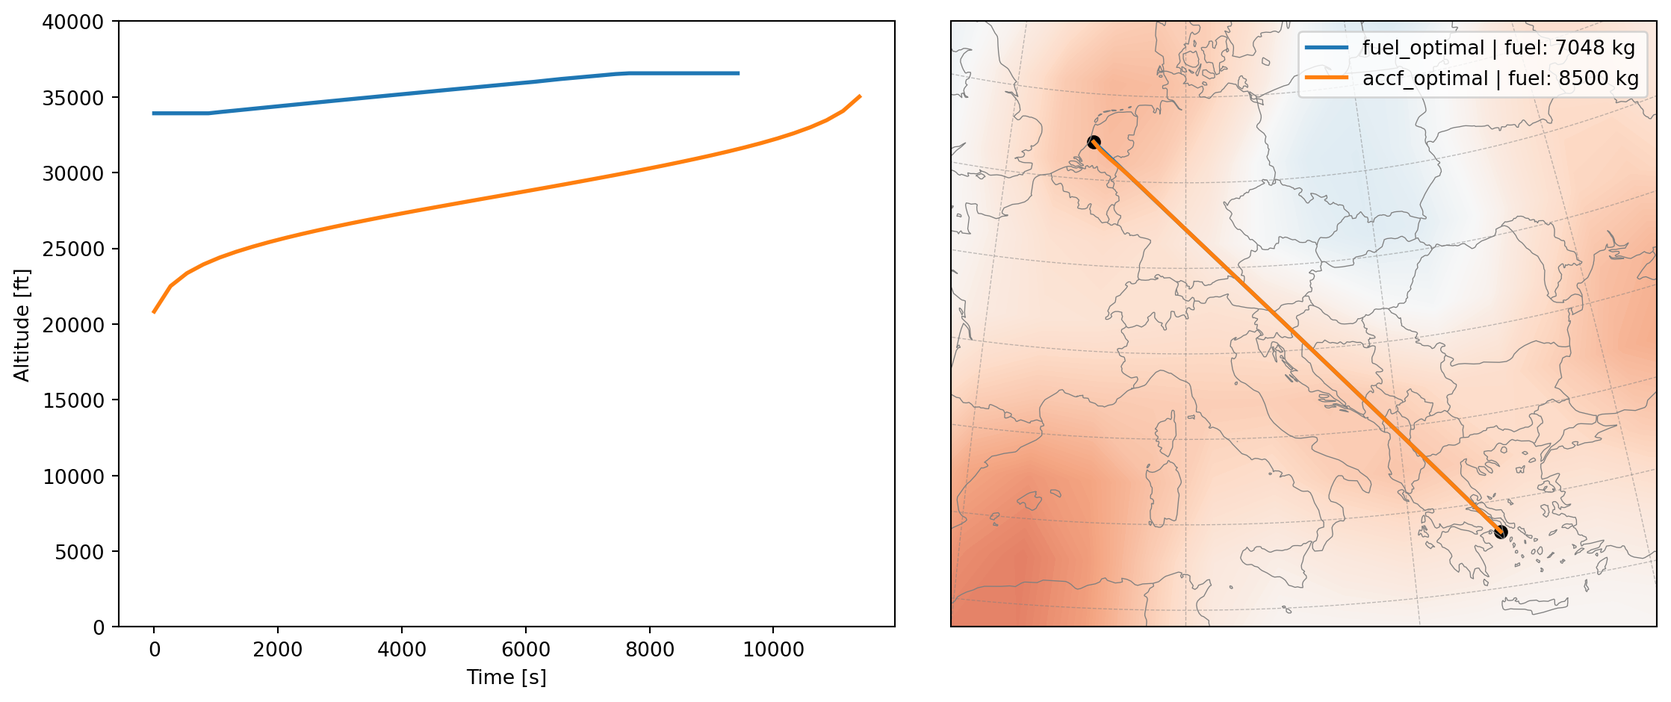
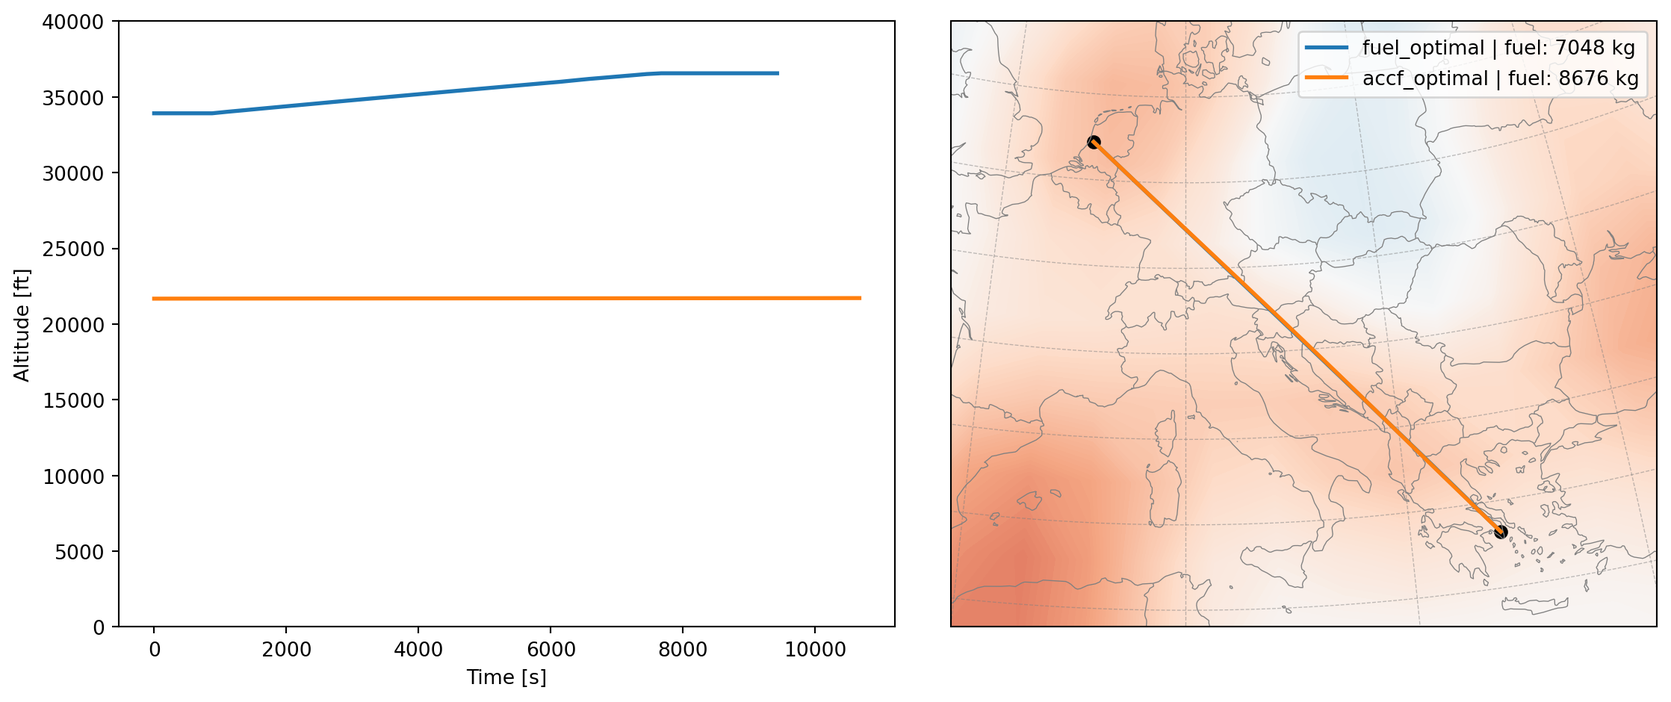
docs(contrails): use auto_rescale_objective=True
The contrail + CO2 ATR20 objective evaluates to ~1e-12 K/s per
collocation segment, far below IPOPT's default tolerances. Without
rescaling, every scenario converged to the same trajectory regardless
of the contrail/CO2 weight. Turning on auto_rescale_objective=True
(restored in opentop) normalizes the objective to O(1) at the initial
guess; the scenario loop now produces the expected divergent
trajectories (sc_c=0 → 35385 ft, sc_c=1 → 21697 ft).

Add a callout explaining why this kwarg is essential for
climate-metric objectives, and rebuild contrails.html with the
corrected trajectories.

diff --git a/_book/optimize/contrails.html b/_book/optimize/contrails.html
@@ -447,13 +447,13 @@ div.csl-indent {
 <span id="cb1-2"><a href="#cb1-2" aria-hidden="true" tabindex="-1"></a></span>
 <span id="cb1-3"><a href="#cb1-3" aria-hidden="true" tabindex="-1"></a>urllib.request.urlretrieve(<span class="st">'https://opendap.4tu.nl/thredds/fileServer/data2/djht/bea8a3fe-e34c-4598-9f94-c5a5c63348e5/1/contrail_original.nc'</span>, <span class="st">'tmp/contrail.nc'</span>)</span></code></pre></div><button title="Copy to Clipboard" class="code-copy-button"><i class="bi"></i></button></div>
 <p>Next, we will read the data and convert it to a cost grid. We will use only the data from December 18, 2015 as example, which is also the date used in the paper.</p>
-<div id="7ee6eb07" class="cell" data-execution_count="1">
+<div id="6d8d51f3" class="cell" data-execution_count="1">
 <div class="code-copy-outer-scaffold"><div class="sourceCode cell-code" id="cb2"><pre class="sourceCode python code-with-copy"><code class="sourceCode python"><span id="cb2-1"><a href="#cb2-1" aria-hidden="true" tabindex="-1"></a><span class="im">import</span> xarray <span class="im">as</span> xr</span>
 <span id="cb2-2"><a href="#cb2-2" aria-hidden="true" tabindex="-1"></a></span>
 <span id="cb2-3"><a href="#cb2-3" aria-hidden="true" tabindex="-1"></a>ds <span class="op">=</span> xr.open_dataset(<span class="st">"tmp/contrail.nc"</span>).sel(time<span class="op">=</span><span class="st">"2015-12-18"</span>)</span></code></pre></div><button title="Copy to Clipboard" class="code-copy-button"><i class="bi"></i></button></div>
 </div>
 <p>In this dataset, the levels are defined using L31 model from ECMWF. In order to convert the pressure levels to height, we use the following corresponding pressure altitude in <code>hPa</code>, which will be used to calculate the height in <code>m</code>:</p>
-<div id="7dac318f" class="cell" data-execution_count="2">
+<div id="fe396490" class="cell" data-execution_count="2">
 <details class="code-fold">
 <summary>L31 level to pressure in hPa</summary>
 <div class="code-copy-outer-scaffold"><div class="sourceCode cell-code" id="cb3"><pre class="sourceCode python code-with-copy"><code class="sourceCode python"><span id="cb3-1"><a href="#cb3-1" aria-hidden="true" tabindex="-1"></a>level_pressure <span class="op">=</span> [</span>
@@ -506,7 +506,7 @@ Note
 <p>A few things to pay attention to: - longitude from ECMWF data is in the range of 0 to 360, we need to convert it to -180 to 180. - The height is in <code>hPa</code>, we need to convert it to <code>m</code>. - We will only use the data below 15,000m (below FL500). - The cost dataframe must contain the following minimum columns: ‘latitude’, ‘longitude’, ‘height’, ‘cost’.</p>
 </div>
 </div>
-<div id="8a6d22b3" class="cell" data-execution_count="3">
+<div id="018ca38b" class="cell" data-execution_count="3">
 <div class="code-copy-outer-scaffold"><div class="sourceCode cell-code" id="cb4"><pre class="sourceCode python code-with-copy"><code class="sourceCode python"><span id="cb4-1"><a href="#cb4-1" aria-hidden="true" tabindex="-1"></a><span class="im">import</span> openap</span>
 <span id="cb4-2"><a href="#cb4-2" aria-hidden="true" tabindex="-1"></a><span class="im">import</span> pandas <span class="im">as</span> pd</span>
 <span id="cb4-3"><a href="#cb4-3" aria-hidden="true" tabindex="-1"></a><span class="im">import</span> numpy <span class="im">as</span> np</span>
@@ -601,7 +601,7 @@ Note
 </div>
 </div>
 <p>Before we use the data for optimization, let’s reproduce the example from the paper with the cost grid for Europe at 250 hPa, which is approximately 10,700m. The selected EU region is defined as 30-70 latitude and -20 to 40 longitude.</p>
-<div id="42e2cc43" class="cell" data-execution_count="4">
+<div id="5faaa145" class="cell" data-execution_count="4">
 <div class="code-copy-outer-scaffold"><div class="sourceCode cell-code" id="cb5"><pre class="sourceCode python code-with-copy"><code class="sourceCode python"><span id="cb5-1"><a href="#cb5-1" aria-hidden="true" tabindex="-1"></a><span class="im">import</span> matplotlib.pyplot <span class="im">as</span> plt</span>
 <span id="cb5-2"><a href="#cb5-2" aria-hidden="true" tabindex="-1"></a><span class="im">from</span> cartopy <span class="im">import</span> crs <span class="im">as</span> ccrs</span>
 <span id="cb5-3"><a href="#cb5-3" aria-hidden="true" tabindex="-1"></a><span class="im">from</span> cartopy.feature <span class="im">import</span> BORDERS</span>
@@ -669,7 +669,7 @@ Note
 <p>It is also practical to smooth the grid, most importantly the vertical axis, so that the optimization can be more stable. The Gaussian filter helps to prevent sharp discontinuities in the cost grid, thus improving the gradient calculation.</p>
 </div>
 </div>
-<div id="eee02ef9" class="cell" data-execution_count="5">
+<div id="fc27d119" class="cell" data-execution_count="5">
 <div class="code-copy-outer-scaffold"><div class="sourceCode cell-code" id="cb6"><pre class="sourceCode python code-with-copy"><code class="sourceCode python"><span id="cb6-1"><a href="#cb6-1" aria-hidden="true" tabindex="-1"></a><span class="im">from</span> scipy.ndimage <span class="im">import</span> gaussian_filter</span>
 <span id="cb6-2"><a href="#cb6-2" aria-hidden="true" tabindex="-1"></a></span>
 <span id="cb6-3"><a href="#cb6-3" aria-hidden="true" tabindex="-1"></a>df_cost <span class="op">=</span> df_cost_world.query(</span>
@@ -686,7 +686,7 @@ Note
 <span id="cb6-14"><a href="#cb6-14" aria-hidden="true" tabindex="-1"></a>df_cost <span class="op">=</span> df_cost.assign(cost<span class="op">=</span>cost_.flatten())</span></code></pre></div><button title="Copy to Clipboard" class="code-copy-button"><i class="bi"></i></button></div>
 </div>
 <p>Next, we can plot the smoothed cost grid for different heights.</p>
-<div id="a50e601e" class="cell" data-execution_count="6">
+<div id="680b8ec6" class="cell" data-execution_count="6">
 <div class="code-copy-outer-scaffold"><div class="sourceCode cell-code" id="cb7"><pre class="sourceCode python code-with-copy"><code class="sourceCode python"><span id="cb7-1"><a href="#cb7-1" aria-hidden="true" tabindex="-1"></a>fig, axes <span class="op">=</span> plt.subplots(<span class="dv">3</span>, <span class="dv">3</span>, figsize<span class="op">=</span>(<span class="dv">12</span>, <span class="dv">10</span>), subplot_kw<span class="op">=</span><span class="bu">dict</span>(projection<span class="op">=</span>proj))</span>
 <span id="cb7-2"><a href="#cb7-2" aria-hidden="true" tabindex="-1"></a></span>
 <span id="cb7-3"><a href="#cb7-3" aria-hidden="true" tabindex="-1"></a>heights <span class="op">=</span> df_cost.height.unique()</span>
@@ -741,6 +741,21 @@ Note
 <p>The unit of the contrail temperature response from the paper is in <code>K/km</code>; however, the optimizer requires the cost to be divided by time, thus we need to convert the unit to <code>K/s</code>. In this case, we first define the cost to be not time-dependent. Then, we multiply the cost by the true airspeed of the aircraft with a conversion factor of <code>1e-3</code>, which is the speed of the aircraft in <code>km/s</code>.</p>
 <p>For the CO2 emissions, we use the conversion factor of <code>7.03e-15 K/kg</code> to convert the fuel flow (<code>kg/s</code>) to temperature response (<code>K/s</code>).</p>
 <p>In addition to the default combined effect of contrail and CO2, we will build a fuel optimal trajectory as a comparison. The fuel optimal trajectory is obtained by setting the contrail cost to zero.</p>
+<div class="callout callout-style-default callout-important callout-titled">
+<div class="callout-header d-flex align-content-center">
+<div class="callout-icon-container">
+<i class="callout-icon"></i>
+</div>
+<div class="callout-title-container flex-fill">
+<span class="screen-reader-only">Important</span><code>auto_rescale_objective=True</code> is essential for climate-metric objectives
+</div>
+</div>
+<div class="callout-body-container callout-body">
+<p>The objective below combines contrail ATR20 (in K/km, multiplied by airspeed to give K/s) and CO2 (fuel-flow kg/s multiplied by 7.03e-15 K/kg to give K/s). The total is tiny — somewhere around 10⁻¹² K/s per collocation segment.</p>
+<p>IPOPT’s default convergence tolerances (<code>tol</code>, <code>acceptable_tol</code>) are calibrated for objectives on the order of 1. When the physical objective is at 10⁻¹², the tolerances are trivially satisfied at any feasible point: the solver reports <code>Solve_Succeeded</code> in a handful of iterations, but the optimum it returns is barely distinguishable from the initial guess. All scenarios below would collapse to the same trajectory.</p>
+<p><code>auto_rescale_objective=True</code> evaluates the symbolic objective at the initial guess, divides the whole objective by that value, and multiplies back into <code>objective_value</code> so callers still see the physical number. IPOPT then works against an <code>O(1)</code> objective where its tolerances mean what they say. Use this whenever the natural magnitude of the objective is far from 1 — climate-metric examples are the canonical case.</p>
+</div>
+</div>
 <div class="callout callout-style-default callout-tip callout-titled">
 <div class="callout-header d-flex align-content-center">
 <div class="callout-icon-container">
@@ -761,7 +776,7 @@ Note
 <p>The first call builds the B-spline and writes the result to <code>cache/contrail.casadi</code>; subsequent calls load the cache in under a second. The same cache can be produced from the command line with <code>opentop gengrid</code> — see the <a href="../optimize/cli.html">CLI chapter</a> for details.</p>
 </div>
 </div>
-<div id="5d7f639d" class="cell" data-execution_count="7">
+<div id="46423d50" class="cell" data-execution_count="7">
 <div class="code-copy-outer-scaffold"><div class="sourceCode cell-code" id="cb9"><pre class="sourceCode python code-with-copy"><code class="sourceCode python"><span id="cb9-1"><a href="#cb9-1" aria-hidden="true" tabindex="-1"></a><span class="im">import</span> opentop <span class="im">as</span> top</span>
 <span id="cb9-2"><a href="#cb9-2" aria-hidden="true" tabindex="-1"></a></span>
 <span id="cb9-3"><a href="#cb9-3" aria-hidden="true" tabindex="-1"></a>optimizer <span class="op">=</span> top.Cruise(<span class="st">"A320"</span>, <span class="st">"EHAM"</span>, <span class="st">"LGAV"</span>, m0<span class="op">=</span><span class="fl">0.85</span>)</span>
@@ -793,15 +808,16 @@ Note
 <span id="cb9-29"><a href="#cb9-29" aria-hidden="true" tabindex="-1"></a>    objective<span class="op">=</span>objective,</span>
 <span id="cb9-30"><a href="#cb9-30" aria-hidden="true" tabindex="-1"></a>    interpolant<span class="op">=</span>interpolant,</span>
 <span id="cb9-31"><a href="#cb9-31" aria-hidden="true" tabindex="-1"></a>    initial_guess<span class="op">=</span>flight_fuel_optimal,</span>
-<span id="cb9-32"><a href="#cb9-32" aria-hidden="true" tabindex="-1"></a>    return_failed<span class="op">=</span><span class="va">True</span>,</span>
-<span id="cb9-33"><a href="#cb9-33" aria-hidden="true" tabindex="-1"></a>)</span>
-<span id="cb9-34"><a href="#cb9-34" aria-hidden="true" tabindex="-1"></a></span>
-<span id="cb9-35"><a href="#cb9-35" aria-hidden="true" tabindex="-1"></a>results <span class="op">=</span> {}</span>
-<span id="cb9-36"><a href="#cb9-36" aria-hidden="true" tabindex="-1"></a>results[<span class="st">"fuel_optimal"</span>] <span class="op">=</span> flight_fuel_optimal</span>
-<span id="cb9-37"><a href="#cb9-37" aria-hidden="true" tabindex="-1"></a>results[<span class="st">"accf_optimal"</span>] <span class="op">=</span> flight</span></code></pre></div><button title="Copy to Clipboard" class="code-copy-button"><i class="bi"></i></button></div>
+<span id="cb9-32"><a href="#cb9-32" aria-hidden="true" tabindex="-1"></a>    auto_rescale_objective<span class="op">=</span><span class="va">True</span>,</span>
+<span id="cb9-33"><a href="#cb9-33" aria-hidden="true" tabindex="-1"></a>    return_failed<span class="op">=</span><span class="va">True</span>,</span>
+<span id="cb9-34"><a href="#cb9-34" aria-hidden="true" tabindex="-1"></a>)</span>
+<span id="cb9-35"><a href="#cb9-35" aria-hidden="true" tabindex="-1"></a></span>
+<span id="cb9-36"><a href="#cb9-36" aria-hidden="true" tabindex="-1"></a>results <span class="op">=</span> {}</span>
+<span id="cb9-37"><a href="#cb9-37" aria-hidden="true" tabindex="-1"></a>results[<span class="st">"fuel_optimal"</span>] <span class="op">=</span> flight_fuel_optimal</span>
+<span id="cb9-38"><a href="#cb9-38" aria-hidden="true" tabindex="-1"></a>results[<span class="st">"accf_optimal"</span>] <span class="op">=</span> flight</span></code></pre></div><button title="Copy to Clipboard" class="code-copy-button"><i class="bi"></i></button></div>
 </div>
 <p>Next we can visualize the final flight trajectory. Note that the cost grid at FL350 is shown in the background.</p>
-<div id="fb1f8918" class="cell" data-execution_count="8">
+<div id="ff95c547" class="cell" data-execution_count="8">
 <details class="code-fold">
 <summary>Show the code of plot_flight() used for visulization</summary>
 <div class="code-copy-outer-scaffold"><div class="sourceCode cell-code" id="cb10"><pre class="sourceCode python code-with-copy"><code class="sourceCode python"><span id="cb10-1"><a href="#cb10-1" aria-hidden="true" tabindex="-1"></a><span class="kw">def</span> plot_flight(results, df_cost, scenarios<span class="op">=</span><span class="va">None</span>):</span>
@@ -866,7 +882,7 @@ Note
 <span id="cb10-60"><a href="#cb10-60" aria-hidden="true" tabindex="-1"></a>    plt.show()</span></code></pre></div><button title="Copy to Clipboard" class="code-copy-button"><i class="bi"></i></button></div>
 </details>
 </div>
-<div id="97a40c18" class="cell" data-execution_count="9">
+<div id="f5c757ed" class="cell" data-execution_count="9">
 <details class="code-fold">
 <summary>cacluate extra fuel</summary>
 <div class="code-copy-outer-scaffold"><div class="sourceCode cell-code" id="cb11"><pre class="sourceCode python code-with-copy"><code class="sourceCode python"><span id="cb11-1"><a href="#cb11-1" aria-hidden="true" tabindex="-1"></a>accf_fuel <span class="op">=</span> results[<span class="st">"accf_optimal"</span>].fuel_cost.<span class="bu">sum</span>()</span>
@@ -876,7 +892,7 @@ Note
 <span id="cb11-5"><a href="#cb11-5" aria-hidden="true" tabindex="-1"></a>extra_fuel_percent <span class="op">=</span> <span class="bu">int</span>(((accf_fuel <span class="op">/</span> fuel_fuel <span class="op">-</span> <span class="dv">1</span>) <span class="op">*</span> <span class="dv">100</span>).<span class="bu">round</span>())</span></code></pre></div><button title="Copy to Clipboard" class="code-copy-button"><i class="bi"></i></button></div>
 </details>
 </div>
-<div id="754728f2" class="cell" data-execution_count="10">
+<div id="7bf4f155" class="cell" data-execution_count="10">
 <div class="code-copy-outer-scaffold"><div class="sourceCode cell-code" id="cb12"><pre class="sourceCode python code-with-copy"><code class="sourceCode python"><span id="cb12-1"><a href="#cb12-1" aria-hidden="true" tabindex="-1"></a>plot_flight(results, df_cost)</span></code></pre></div><button title="Copy to Clipboard" class="code-copy-button"><i class="bi"></i></button></div>
 <div class="cell-output cell-output-display">
 <div>
@@ -886,23 +902,24 @@ Note
 </div>
 </div>
 </div>
-<p>In this example, we can see that the optimal trajectory considering <strong>both</strong> contrail and CO2 climate effects fly at a very low altitude to avoide regions with high contrail cost. This comes with a great cost in terms of fuel, which is significantly higher than the fuel optimal trajectory. The extra fuel cost is about 1450 kg, which accounts for about 21% extra fuel when compared to the optimal case.</p>
+<p>In this example, we can see that the optimal trajectory considering <strong>both</strong> contrail and CO2 climate effects fly at a very low altitude to avoide regions with high contrail cost. This comes with a great cost in terms of fuel, which is significantly higher than the fuel optimal trajectory. The extra fuel cost is about 1630 kg, which accounts for about 23% extra fuel when compared to the optimal case.</p>
 <p>To perform a more fair comparison, we will constraint the altitude of the desired trajectory to be within the range of the fuel optimal trajectory. This can be done by setting the <code>h_min</code> and <code>h_max</code> arguments in the <code>optimizer.trajectory()</code> function. A margion of 600 meters is added to the minimum and maximum altitude of the fuel optimal trajectory.</p>
-<div id="fa4e4142" class="cell" data-execution_count="11">
+<div id="bdc4e5d1" class="cell" data-execution_count="11">
 <div class="code-copy-outer-scaffold"><div class="sourceCode cell-code" id="cb13"><pre class="sourceCode python code-with-copy"><code class="sourceCode python"><span id="cb13-1"><a href="#cb13-1" aria-hidden="true" tabindex="-1"></a>flight <span class="op">=</span> optimizer.trajectory(</span>
 <span id="cb13-2"><a href="#cb13-2" aria-hidden="true" tabindex="-1"></a>    objective<span class="op">=</span>objective,</span>
 <span id="cb13-3"><a href="#cb13-3" aria-hidden="true" tabindex="-1"></a>    interpolant<span class="op">=</span>interpolant,</span>
 <span id="cb13-4"><a href="#cb13-4" aria-hidden="true" tabindex="-1"></a>    initial_guess<span class="op">=</span>flight_fuel_optimal,</span>
 <span id="cb13-5"><a href="#cb13-5" aria-hidden="true" tabindex="-1"></a>    h_min<span class="op">=</span>flight_fuel_optimal.h.<span class="bu">min</span>() <span class="op">-</span> <span class="dv">600</span>,</span>
 <span id="cb13-6"><a href="#cb13-6" aria-hidden="true" tabindex="-1"></a>    h_max<span class="op">=</span>flight_fuel_optimal.h.<span class="bu">max</span>() <span class="op">+</span> <span class="dv">600</span>,</span>
-<span id="cb13-7"><a href="#cb13-7" aria-hidden="true" tabindex="-1"></a>    return_failed<span class="op">=</span><span class="va">True</span>,</span>
-<span id="cb13-8"><a href="#cb13-8" aria-hidden="true" tabindex="-1"></a>)</span>
-<span id="cb13-9"><a href="#cb13-9" aria-hidden="true" tabindex="-1"></a></span>
-<span id="cb13-10"><a href="#cb13-10" aria-hidden="true" tabindex="-1"></a>results <span class="op">=</span> {}</span>
-<span id="cb13-11"><a href="#cb13-11" aria-hidden="true" tabindex="-1"></a>results[<span class="st">"fuel_optimal"</span>] <span class="op">=</span> flight_fuel_optimal</span>
-<span id="cb13-12"><a href="#cb13-12" aria-hidden="true" tabindex="-1"></a>results[<span class="st">"accf_optimal"</span>] <span class="op">=</span> flight</span></code></pre></div><button title="Copy to Clipboard" class="code-copy-button"><i class="bi"></i></button></div>
+<span id="cb13-7"><a href="#cb13-7" aria-hidden="true" tabindex="-1"></a>    auto_rescale_objective<span class="op">=</span><span class="va">True</span>,</span>
+<span id="cb13-8"><a href="#cb13-8" aria-hidden="true" tabindex="-1"></a>    return_failed<span class="op">=</span><span class="va">True</span>,</span>
+<span id="cb13-9"><a href="#cb13-9" aria-hidden="true" tabindex="-1"></a>)</span>
+<span id="cb13-10"><a href="#cb13-10" aria-hidden="true" tabindex="-1"></a></span>
+<span id="cb13-11"><a href="#cb13-11" aria-hidden="true" tabindex="-1"></a>results <span class="op">=</span> {}</span>
+<span id="cb13-12"><a href="#cb13-12" aria-hidden="true" tabindex="-1"></a>results[<span class="st">"fuel_optimal"</span>] <span class="op">=</span> flight_fuel_optimal</span>
+<span id="cb13-13"><a href="#cb13-13" aria-hidden="true" tabindex="-1"></a>results[<span class="st">"accf_optimal"</span>] <span class="op">=</span> flight</span></code></pre></div><button title="Copy to Clipboard" class="code-copy-button"><i class="bi"></i></button></div>
 </div>
-<div id="36551c8f" class="cell" data-execution_count="12">
+<div id="8a70abb8" class="cell" data-execution_count="12">
 <details class="code-fold">
 <summary>cacluate extra fuel</summary>
 <div class="code-copy-outer-scaffold"><div class="sourceCode cell-code" id="cb14"><pre class="sourceCode python code-with-copy"><code class="sourceCode python"><span id="cb14-1"><a href="#cb14-1" aria-hidden="true" tabindex="-1"></a>accf_fuel <span class="op">=</span> results[<span class="st">"accf_optimal"</span>].fuel_cost.<span class="bu">sum</span>()</span>
@@ -912,7 +929,7 @@ Note
 <span id="cb14-5"><a href="#cb14-5" aria-hidden="true" tabindex="-1"></a>extra_fuel_percent <span class="op">=</span> <span class="bu">int</span>(((accf_fuel <span class="op">/</span> fuel_fuel <span class="op">-</span> <span class="dv">1</span>) <span class="op">*</span> <span class="dv">100</span>).<span class="bu">round</span>())</span></code></pre></div><button title="Copy to Clipboard" class="code-copy-button"><i class="bi"></i></button></div>
 </details>
 </div>
-<div id="fcf8ab6c" class="cell" data-execution_count="13">
+<div id="23aad9df" class="cell" data-execution_count="13">
 <div class="code-copy-outer-scaffold"><div class="sourceCode cell-code" id="cb15"><pre class="sourceCode python code-with-copy"><code class="sourceCode python"><span id="cb15-1"><a href="#cb15-1" aria-hidden="true" tabindex="-1"></a>plot_flight(results, df_cost)</span></code></pre></div><button title="Copy to Clipboard" class="code-copy-button"><i class="bi"></i></button></div>
 <div class="cell-output cell-output-display">
 <div>
@@ -923,14 +940,14 @@ Note
 </div>
 </div>
 <p>Even in this constrained trajectory, we can see that the <em>sub-optimal</em> trajectory considering both contrail and CO2 climate effects differs largely from the fuel optimal trajectory. A large lateral deviation is observed in both the altitude and the route to avoid regions with high contrail cost.</p>
-<p>This deviation costs about 560 kg of fuel, which accounts for about 8% extra fuel when compared to the optimal case. This is a still a significant amount of fuel, results in greater monetary cost and excess CO2 emissions.</p>
+<p>This deviation costs about 570 kg of fuel, which accounts for about 8% extra fuel when compared to the optimal case. This is a still a significant amount of fuel, results in greater monetary cost and excess CO2 emissions.</p>
 </section>
 <section id="uncertainties-that-makes-or-breaks-the-optimization" class="level2" data-number="12.4">
 <h2 data-number="12.4" class="anchored" data-anchor-id="uncertainties-that-makes-or-breaks-the-optimization"><span class="header-section-number">12.4</span> Uncertainties that makes or breaks the optimization</h2>
 <p>In recent studies regarding operational contrail mitigation, we often miss the fact that the contrail cost is highly uncertain. In the paper <em>The contribution of global aviation to anthropogenic climate forcing for 2000 to 2018</em> <a href="https://doi.org/10.1016/j.atmosenv.2020.117834"><span class="citation" data-cites="lee2021contribution"><span class="nocase">Lee et al.</span> (<span>2021</span>)</span></a>, the authors have pointed out that the uncertainties in the effective radiative forcing caused by contrail cirrus can be between 17 and 98 mW/m2. This is a huge range, but many studies only consider the mean value of 57.4.</p>
 <p>This large scale of uncertainties can lead to completely different optimal trajectories. In the following example, we will show how the optimization results can be affected by the uncertainties in the contrail cost.</p>
 <p>First of all, different scenarios and scaling factors for contrail and CO2 are defined as follows:</p>
-<div id="e57ad834" class="cell" data-execution_count="14">
+<div id="14872cec" class="cell" data-execution_count="14">
 <div class="code-copy-outer-scaffold"><div class="sourceCode cell-code" id="cb16"><pre class="sourceCode python code-with-copy"><code class="sourceCode python"><span id="cb16-1"><a href="#cb16-1" aria-hidden="true" tabindex="-1"></a>more_scenarios <span class="op">=</span> {</span>
 <span id="cb16-2"><a href="#cb16-2" aria-hidden="true" tabindex="-1"></a>    <span class="st">"fuel_optimal"</span>: [<span class="dv">0</span>, <span class="dv">1</span>],</span>
 <span id="cb16-3"><a href="#cb16-3" aria-hidden="true" tabindex="-1"></a>    <span class="st">"accf_optimal"</span>: [<span class="dv">1</span>, <span class="dv">1</span>],</span>
@@ -942,7 +959,7 @@ Note
 </div>
 <p>In the above scenarios, for example, <code>lo_contrail_high_co2</code> refers to scaling the contrail impact to a lower bound of 29.3% of the default value, while the CO2 cost is scaled to the upper bound of 116.6% of the default value. In this case, the contrail has a significantly lower impact than what has been assumed in the default case, while the CO2 cost is slightly higher.</p>
 <p>The following code will run the optimization for all the scenarios and visualize the results. Note that the altitude constraints are still applied to the optimizations.</p>
-<div id="f13803c6" class="cell" data-execution_count="15">
+<div id="962edfd3" class="cell" data-execution_count="15">
 <div class="code-copy-outer-scaffold"><div class="sourceCode cell-code" id="cb17"><pre class="sourceCode python code-with-copy"><code class="sourceCode python"><span id="cb17-1"><a href="#cb17-1" aria-hidden="true" tabindex="-1"></a><span class="im">import</span> opentop <span class="im">as</span> top</span>
 <span id="cb17-2"><a href="#cb17-2" aria-hidden="true" tabindex="-1"></a></span>
 <span id="cb17-3"><a href="#cb17-3" aria-hidden="true" tabindex="-1"></a>optimizer <span class="op">=</span> top.Cruise(<span class="st">"A320"</span>, <span class="st">"EHAM"</span>, <span class="st">"LGAV"</span>, m0<span class="op">=</span><span class="fl">0.85</span>)</span>
@@ -962,9 +979,10 @@ Note
 <span id="cb17-17"><a href="#cb17-17" aria-hidden="true" tabindex="-1"></a>        h_max<span class="op">=</span>flight_fuel_optimal.h.<span class="bu">max</span>() <span class="op">+</span> <span class="dv">600</span>,</span>
 <span id="cb17-18"><a href="#cb17-18" aria-hidden="true" tabindex="-1"></a>        scale_contrail<span class="op">=</span>weights[<span class="dv">0</span>],</span>
 <span id="cb17-19"><a href="#cb17-19" aria-hidden="true" tabindex="-1"></a>        scale_co2<span class="op">=</span>weights[<span class="dv">1</span>],</span>
-<span id="cb17-20"><a href="#cb17-20" aria-hidden="true" tabindex="-1"></a>        return_failed<span class="op">=</span><span class="va">True</span>,</span>
-<span id="cb17-21"><a href="#cb17-21" aria-hidden="true" tabindex="-1"></a>    )</span>
-<span id="cb17-22"><a href="#cb17-22" aria-hidden="true" tabindex="-1"></a>    more_results[scenario] <span class="op">=</span> flight</span></code></pre></div><button title="Copy to Clipboard" class="code-copy-button"><i class="bi"></i></button></div>
+<span id="cb17-20"><a href="#cb17-20" aria-hidden="true" tabindex="-1"></a>        auto_rescale_objective<span class="op">=</span><span class="va">True</span>,</span>
+<span id="cb17-21"><a href="#cb17-21" aria-hidden="true" tabindex="-1"></a>        return_failed<span class="op">=</span><span class="va">True</span>,</span>
+<span id="cb17-22"><a href="#cb17-22" aria-hidden="true" tabindex="-1"></a>    )</span>
+<span id="cb17-23"><a href="#cb17-23" aria-hidden="true" tabindex="-1"></a>    more_results[scenario] <span class="op">=</span> flight</span></code></pre></div><button title="Copy to Clipboard" class="code-copy-button"><i class="bi"></i></button></div>
 <div class="cell-output cell-output-stdout">
 <pre><code>runing scenario: fuel_optimal
 runing scenario: accf_optimal
@@ -974,7 +992,7 @@ runing scenario: hi_contrail_lo_co2
 runing scenario: hi_contrail_hi_co2</code></pre>
 </div>
 </div>
-<div id="d8936363" class="cell" data-execution_count="16">
+<div id="7d797a52" class="cell" data-execution_count="16">
 <div class="code-copy-outer-scaffold"><div class="sourceCode cell-code" id="cb19"><pre class="sourceCode python code-with-copy"><code class="sourceCode python"><span id="cb19-1"><a href="#cb19-1" aria-hidden="true" tabindex="-1"></a>plot_flight(more_results, df_cost)</span></code></pre></div><button title="Copy to Clipboard" class="code-copy-button"><i class="bi"></i></button></div>
 <div class="cell-output cell-output-display">
 <div>
